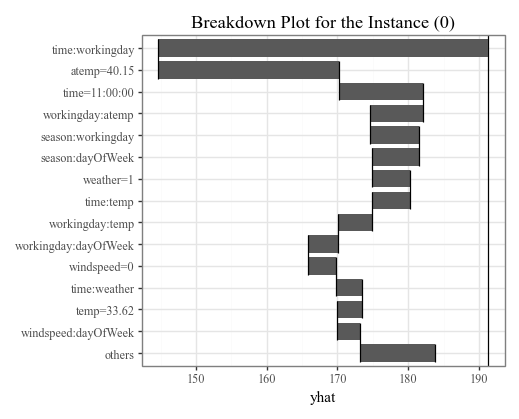
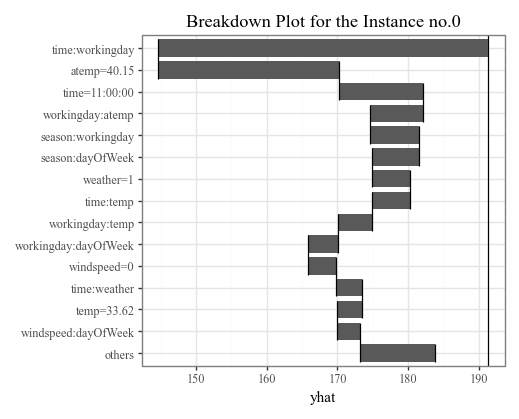
version 0.1.2 - update README, added hexlogo

Changed region(s): [[0.3391, 0.031, 0.894, 0.0931]]

diff --git a/README.md b/README.md
@@ -1,6 +1,6 @@
 <!-- README.md is generated from README.ipynb. Please edit that file -->
 
-# pyramid-learn <img src="docs/logo/logo_banner.png" align="right" height="95" style="background-color: #fedcba"/>
+# pyramid-learn <img src="docs/logo/logo_hex.png" align="right" height="138"/>
 
 A [{rpy2}](https://rpy2.github.io/doc/latest/html/)-based Python wrapper for the [{midr}](https://ryo-asashi.github.io/midr/) R package to explain black-box models, with a [{scikit-learn}](https://scikit-learn.org/stable/) compatible API.
 
@@ -251,7 +251,7 @@ display(p + p9.ggtitle("Interaction of Time and Season"))
 # Plot prediction breakdowns for the first three rows in the testing dataset
 for i in range(3):
     p = explainer.breakdown(row=i, data=X_test).plot()
-    display(p + p9.ggtitle(f"Breakdown Plot for the Instance ({i})"))
+    display(p + p9.ggtitle(f"Breakdown Plot for the Instance no.{i}"))
 ```
 
 
